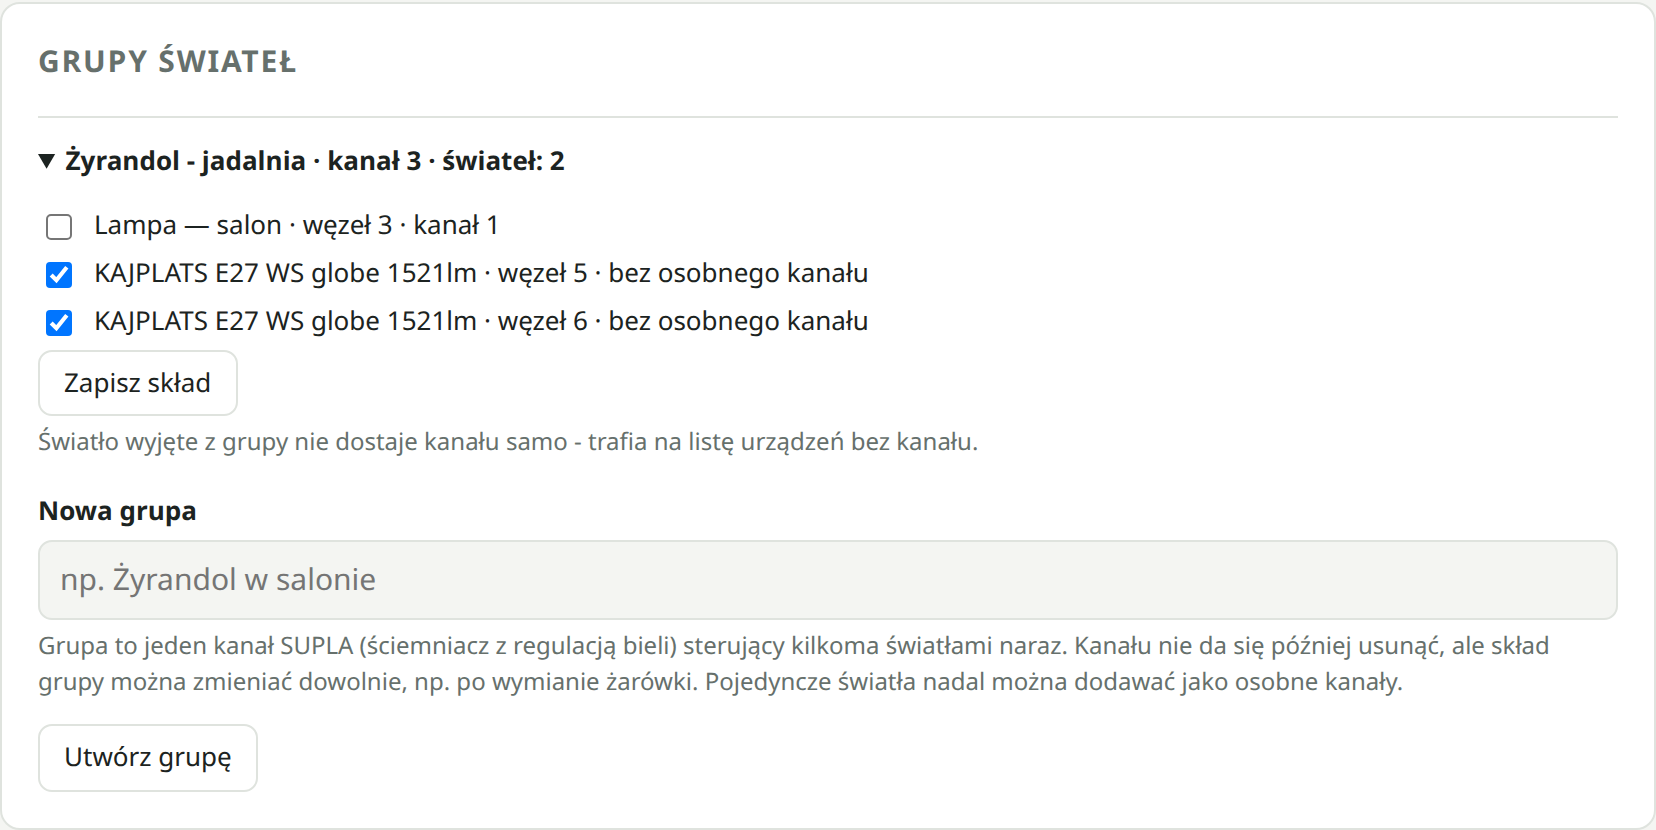
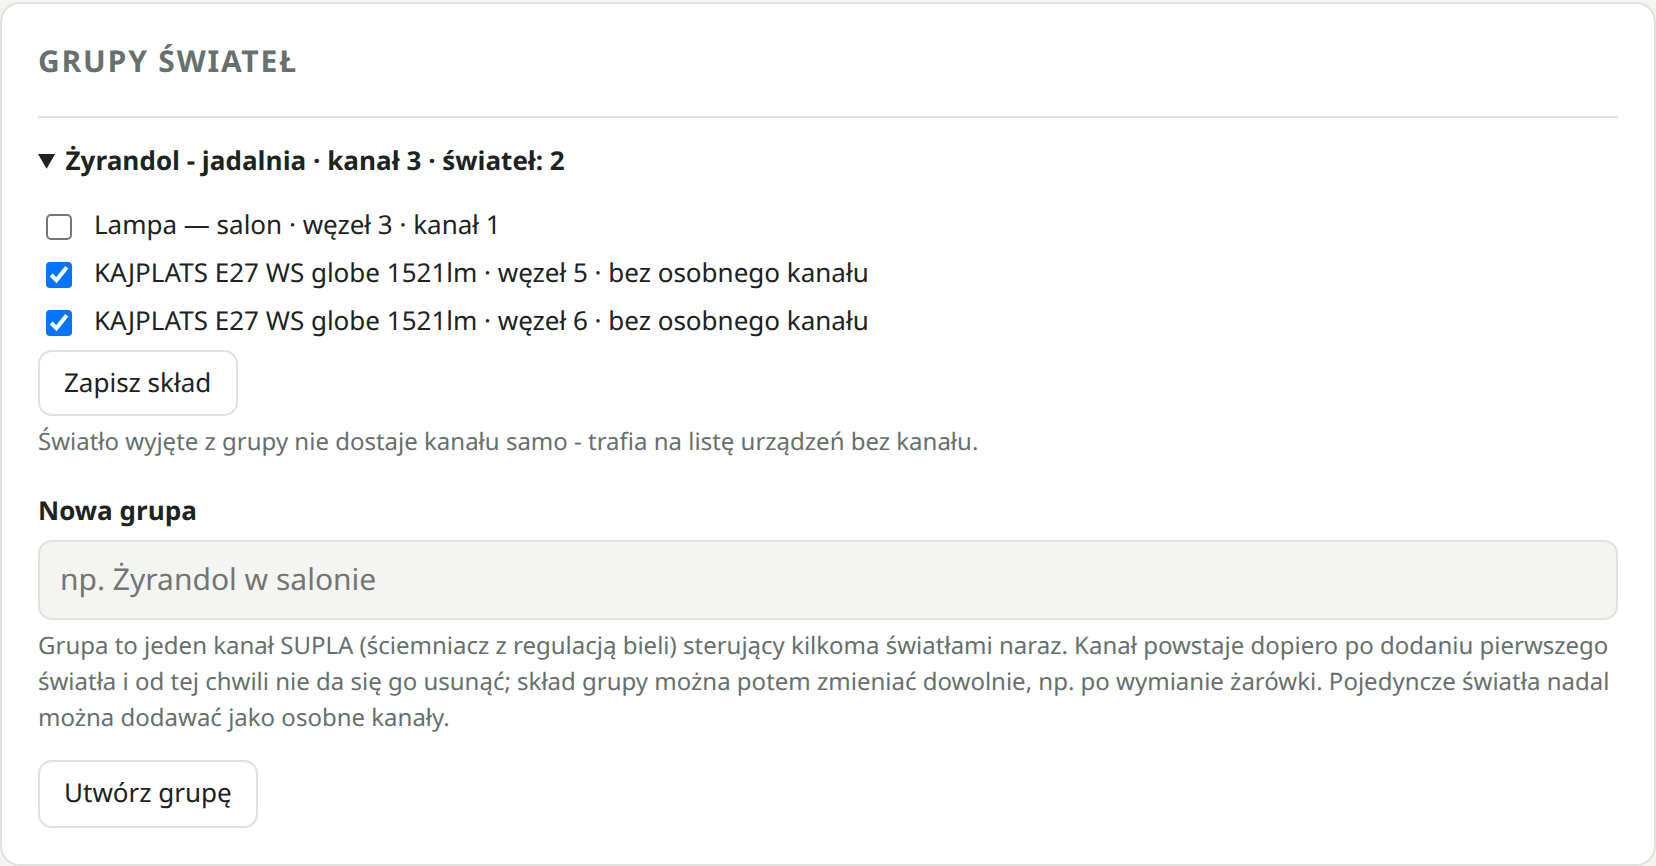
Dokumentacja: grupy świateł, wybór przy parowaniu, odświeżony zrzut

diff --git a/docs/parowanie.md b/docs/parowanie.md
@@ -37,10 +37,11 @@ Dla innych urządzeń sposób wejścia w tryb parowania i resetu podaje instrukc
 
 ![Parowanie w toku (przykładowe dane)](img/panel-parowanie-trwa.png)
 
-1. Otwórz panel i przejdź do sekcji „Parowanie urządzenia” ([zrzut](img/panel-parowanie.png)).
+1. Otwórz panel i przejdź do zakładki „Parowanie” ([zrzut](img/panel-parowanie.png)).
 2. Podaj kod: wpisz `MT:…` / kod numeryczny albo użyj „Zrób zdjęcie kodu QR” (telefon; panel musi być dostępny z LAN - [panel-www.md](panel-www.md#z-sieci-lan---z-hasłem)). Kod QR jest na naklejce urządzenia.
 3. Pole „Urządzenie jest już w sieci…” zostaw **odznaczone** (parowanie przez Bluetooth).
-4. „Sparuj”. Parowanie trwa do kilku minut (limit: 5 minut); wynik pojawi się pod formularzem.
+4. Wybierz w polu „Po sparowaniu”, co ma się stać z urządzeniem: osobny kanał SUPLA (domyślnie), dodanie światła do [grupy świateł](panel-www.md#grupy-świateł) albo brak kanału. Kanał SUPLA jest trwały, więc światło przeznaczone tylko do grupy trzeba wskazać tu, przed parowaniem.
+5. „Sparuj”. Parowanie trwa do kilku minut (limit: 5 minut); wynik pojawi się pod formularzem.
 
 Po udanym parowaniu urządzenie obsługiwanego typu samo pojawia się w „Kanały SUPLA”, a `supla-device` restartuje się z nową konfiguracją. Sprawdź działanie przyciskami Włącz/Wyłącz, potem ustaw funkcję kanału w SUPLA Cloud.
 

diff --git a/README.md b/README.md
@@ -66,6 +66,7 @@ Co obsługuje łącznik:
 | Gniazdko / przekaźnik (klaster OnOff): stan, sterowanie, dostępność | działa na sprzęcie (GRILLPLATS) |
 | Panel WWW: konto SUPLA, parowanie kodem i zdjęciem QR, kanały, diagnostyka, kopie | działa na sprzęcie |
 | Światła z regulacją bieli (KAJPLATS) jako kanał SUPLA „ściemniacz CCT”: jasność i temperatura bieli | działa na sprzęcie: polecenie z SUPLA Cloud dotarło do żarówki, stan wraca; wymaga protokołu SUPLA 28 na serwerze. Sterowanie także suwakami w panelu |
+| Grupy świateł: jeden kanał SUPLA dla kilku świateł tego samego rodzaju, obok zwykłych kanałów pojedynczych ([opis](docs/panel-www.md#grupy-świateł)) | napisane i sprawdzone testami; na prawdziwych żarówkach jeszcze niesprawdzone |
 | Licznik energii gniazdka (napięcie, prąd, moc, energia) - kanał jednofazowy | działa na sprzęcie (GRILLPLATS): pomiary widoczne w aplikacji SUPLA; przy braku danych kanał przechodzi w offline (sprawdzone lokalnie) |
 | Czujniki, inne typy urządzeń | nieobsługiwane - można sparować i pobrać zrzut diagnostyczny |
 

diff --git a/docs/panel-www.md b/docs/panel-www.md
@@ -127,6 +127,8 @@ Grupa to **jeden kanał SUPLA** (ściemniacz z regulacją bieli) sterujący kilk
 - **Skład** - po rozwinięciu grupy zaznacza się światła i zapisuje przyciskiem „Zapisz skład”. Skład można zmieniać dowolnie; numer kanału się nie zmienia.
 - Światło wyjęte z grupy nie dostaje kanału samo - trafia na listę urządzeń bez kanału.
 
+Grupa jest jednorodna: należą do niej tylko światła tego samego rodzaju. Dziś jedyny obsługiwany rodzaj to światło z regulacją jasności i bieli, więc tylko takie są na liście; gniazdka ani innego urządzenia dodać się nie da.
+
 Zachowanie grupy:
 
 - polecenie z SUPLA albo z panelu trafia do wszystkich dostępnych świateł grupy;
